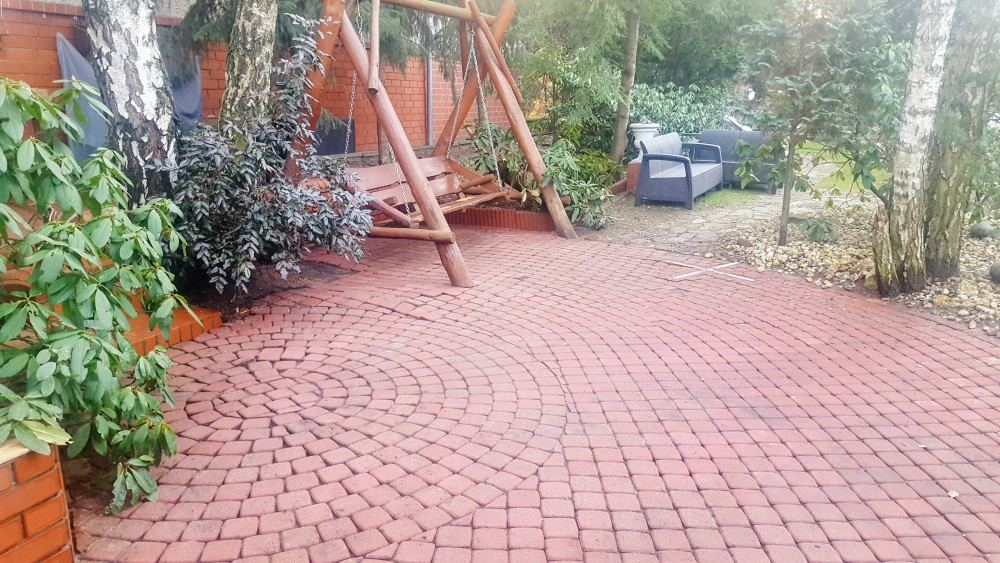
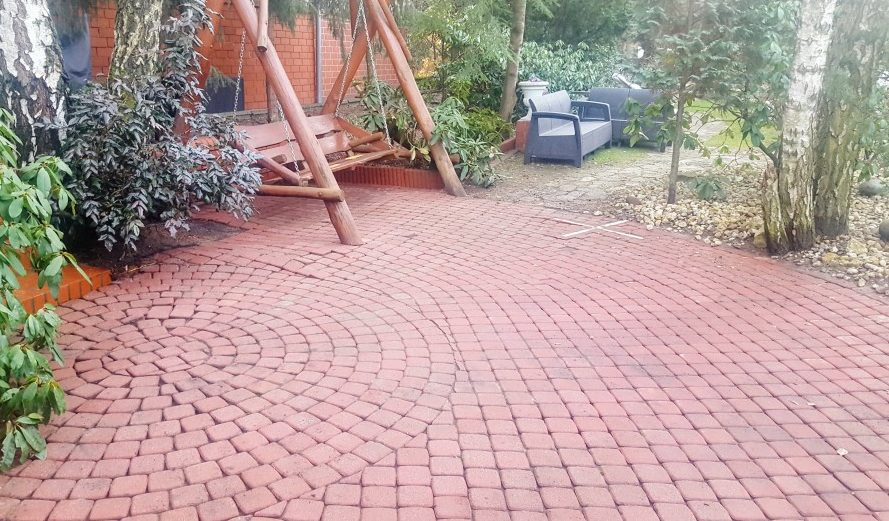
Line up the before/after paving photos
The two shots were taken from slightly different spots, so the paving
jumped at the slider's divider. The "before" photo is now warped onto the
"after" framing with a ground-plane homography (paving joints match to
about 1 px) and both are cropped to the area they share (889x521). Things
standing above the ground, like the swing and the birches, still differ a
little, which a flat warp cannot fix.

Image URLs get ?v=2 because Apache caches JPEGs for a month, and an old
photo next to a new one would look worse than either pair.

Claude-Session: https://claude.ai/code/session_01HD3RaXSQrELRCziBqqz8JY

diff --git a/site/index.html b/site/index.html
@@ -13,7 +13,7 @@
   <link rel="icon" href="assets/img/favicon.png">
   <link rel="preload" href="assets/fonts/archivo-normal-500-900-latin.woff2" as="font" type="font/woff2" crossorigin>
   <link rel="stylesheet" href="assets/css/fonts.css">
-  <link rel="stylesheet" href="assets/css/style.css?v=3">
+  <link rel="stylesheet" href="assets/css/style.css?v=4">
   <script type="module" src="assets/js/app.js?v=3"></script>
   <script type="application/ld+json">
   {
@@ -116,8 +116,8 @@
         </dl>
         <figure class="compare">
           <div class="compare__frame">
-            <img class="compare__after" src="assets/img/work/bruk-po.jpg" srcset="assets/img/work/bruk-po-640.jpg 640w, assets/img/work/bruk-po.jpg 1000w" sizes="(max-width: 64rem) 100vw, 52rem" width="1000" height="560" loading="lazy" decoding="async" draggable="false" alt="Po myciu: kostka znów czerwona, fugi czyste.">
-            <img class="compare__before" src="assets/img/work/bruk-przed.jpg" srcset="assets/img/work/bruk-przed-640.jpg 640w, assets/img/work/bruk-przed.jpg 1000w" sizes="(max-width: 64rem) 100vw, 52rem" width="1000" height="560" loading="lazy" decoding="async" draggable="false" alt="Przed myciem: kostka szara, z&nbsp;zielonym mchem w&nbsp;fugach.">
+            <img class="compare__after" src="assets/img/work/bruk-po.jpg?v=2" srcset="assets/img/work/bruk-po-640.jpg?v=2 640w, assets/img/work/bruk-po.jpg?v=2 889w" sizes="(max-width: 64rem) 100vw, 52rem" width="889" height="521" loading="lazy" decoding="async" draggable="false" alt="Po myciu: kostka znów czerwona, fugi czyste.">
+            <img class="compare__before" src="assets/img/work/bruk-przed.jpg?v=2" srcset="assets/img/work/bruk-przed-640.jpg?v=2 640w, assets/img/work/bruk-przed.jpg?v=2 889w" sizes="(max-width: 64rem) 100vw, 52rem" width="889" height="521" loading="lazy" decoding="async" draggable="false" alt="Przed myciem: kostka szara, z&nbsp;zielonym mchem w&nbsp;fugach.">
             <span class="compare__tag compare__tag--before" aria-hidden="true">Przed</span>
             <span class="compare__tag compare__tag--after" aria-hidden="true">Po</span>
             <input class="compare__range" type="range" min="0" max="100" step="1" value="50" aria-label="Porównanie kostki przed myciem i&nbsp;po nim" hidden>

diff --git a/site/assets/css/style.css b/site/assets/css/style.css
@@ -323,7 +323,7 @@ a { color: inherit; }
 .compare__frame {
   --split: 50%;
   position: relative;
-  aspect-ratio: 1000 / 560;
+  aspect-ratio: 889 / 521;
   overflow: hidden;
   background: var(--ink);
   user-select: none; -webkit-user-select: none;
